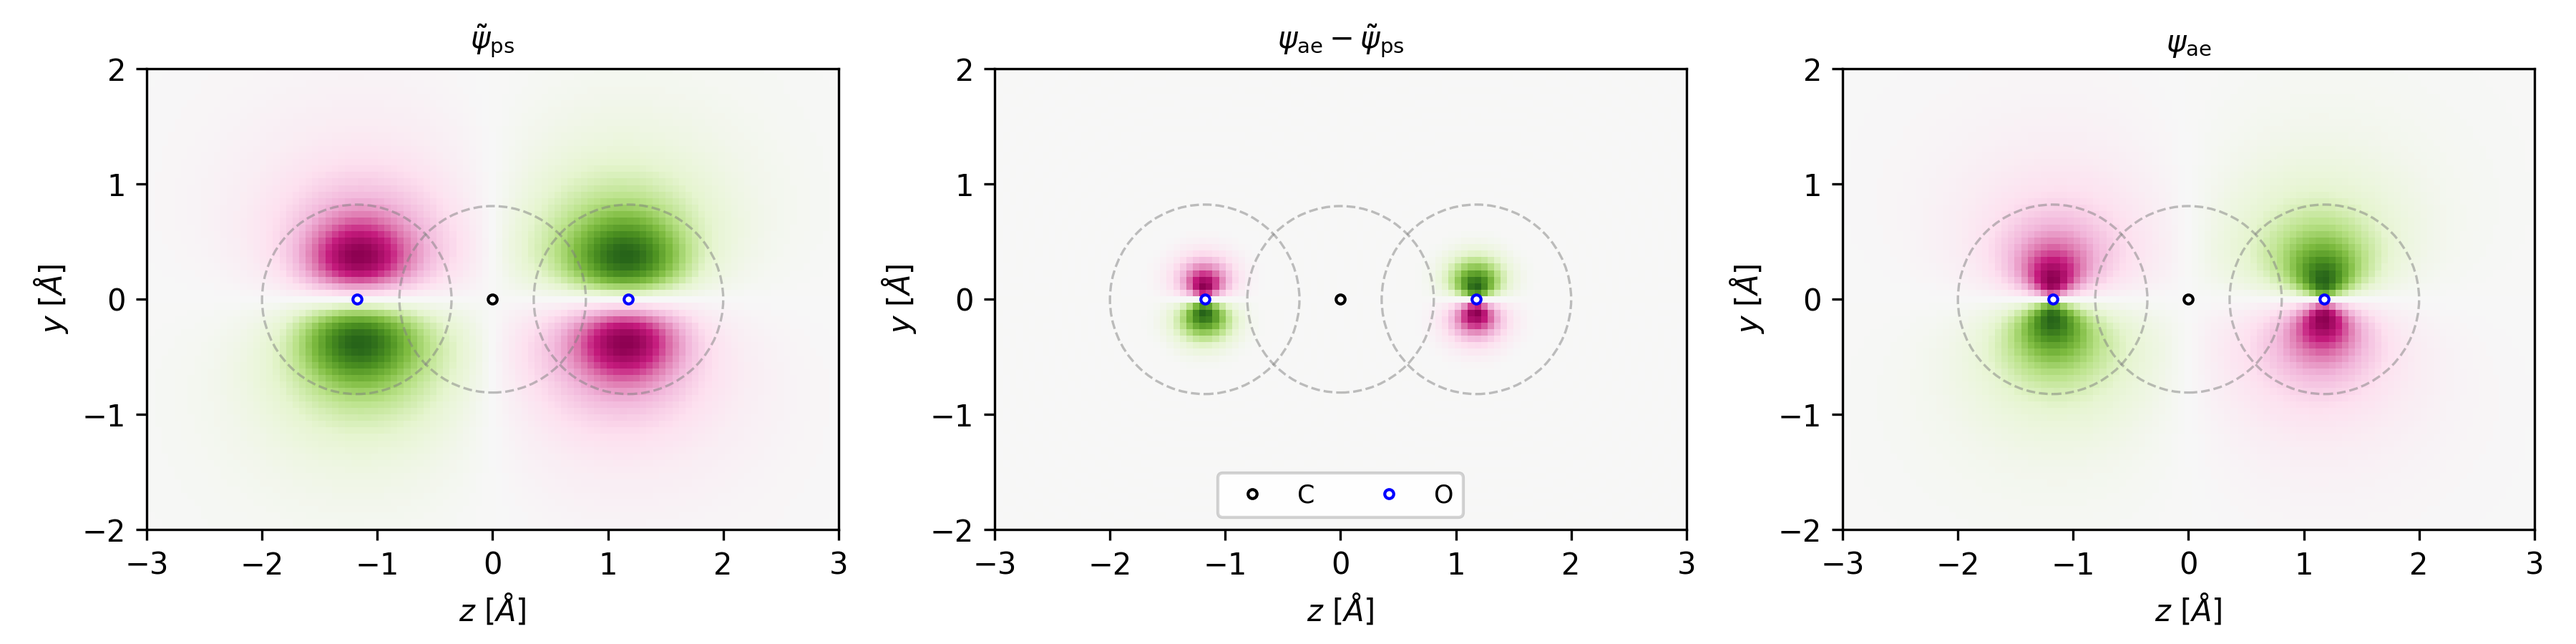
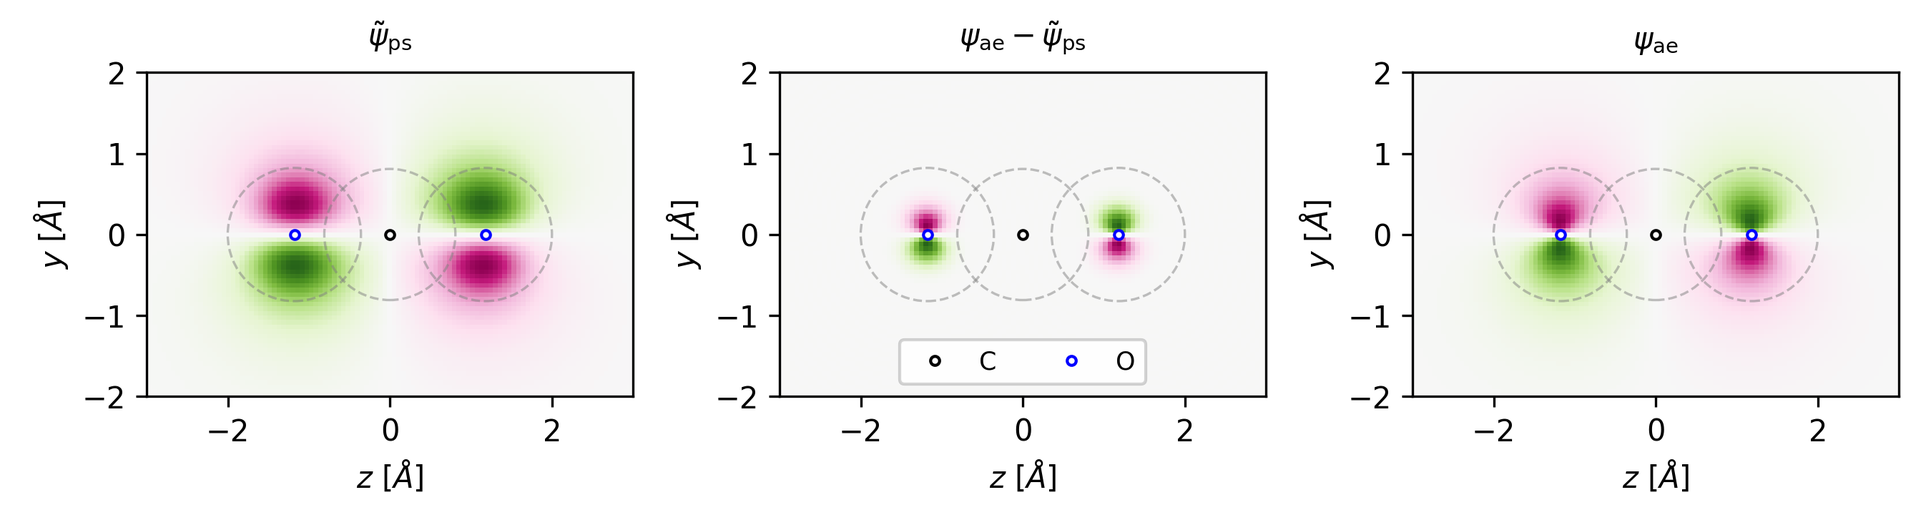
[examples/aewfc/co2] change figure size of orb_co2_homo.png

diff --git a/examples/aewfc/co2/plt_aeps_wfc_orb.py b/examples/aewfc/co2/plt_aeps_wfc_orb.py
@@ -29,7 +29,7 @@ r_ae = np.arange(phi_ae.shape[-1]) * L / phi_ae.shape[-1]
 x, y = np.meshgrid(r_ps - L/2, r_ps - L/2)
 ################################################################################
 fig = plt.figure(
-  figsize=(12, 3.0),
+  figsize=(9, 2.4),
   dpi=300,
 )
 
@@ -94,7 +94,7 @@ for ii in range(3):
         )
         ax.add_artist(leg1)
 
-    ax.text(0.50, 1.02,
+    ax.text(0.50, 1.05,
         wfc_labels[ii],
         ha="center",
         va="bottom",
